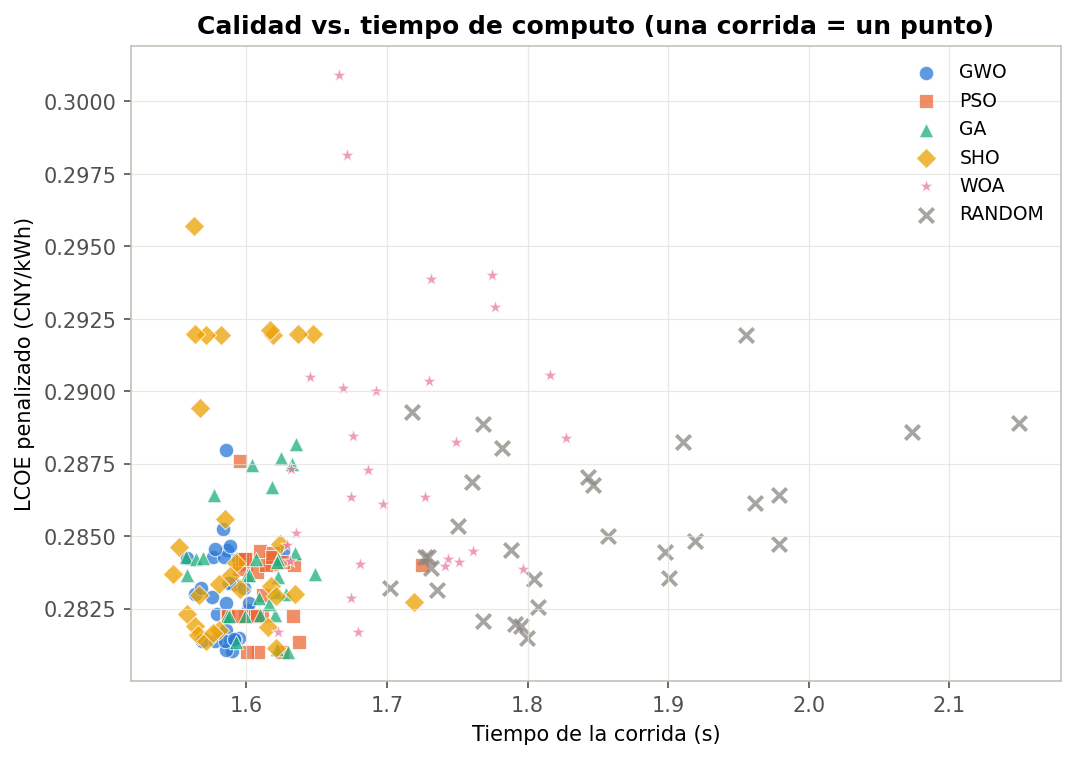
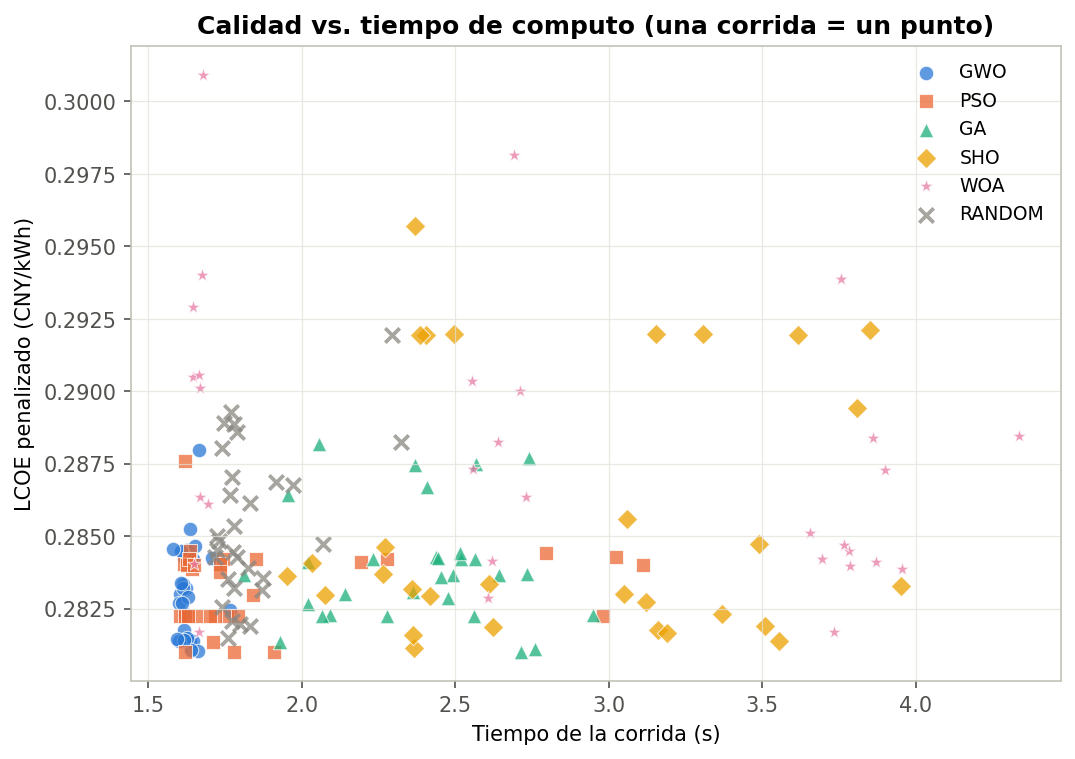
Regenera entrega/ con los tiempos medidos de la ultima corrida
h2hres report --config configs/metaheuristicas.yaml --out entrega, sin
cambios de codigo ni de configuracion. Todos los scores, el ranking, la
validacion contra el paper (9 de 10 objetivos dentro de tolerancia) y los
dos barridos de sensibilidad dan exactamente lo mismo que antes: lo unico
que se mueve son los tiempos de reloj de esta maquina (elapsed_s por
corrida, mean_elapsed_s por algoritmo, el total del README y la posicion
horizontal de los puntos en calidad_vs_tiempo.png).

diff --git a/entrega/README.md b/entrega/README.md
@@ -142,5 +142,5 @@ h2hres download --config configs/metaheuristicas.yaml   # ~1 min, una vez
 h2hres report   --config configs/metaheuristicas.yaml --out entrega
 ```
 
-`report` encadena validacion, comparativa (6 algoritmos x 30 semillas, 600 evaluaciones cada una) y los dos barridos de sensibilidad. La ultima corrida en esta maquina tomo 5 min 12 s (medido, no estimado -- se recalcula cada vez que se regenera `entrega/`). Cada corrida individual tambien queda en `results/<timestamp>_*/` via `h2hres compare` y `h2hres sensitivity` por separado, si hace falta aislar una sin regenerar todo.
+`report` encadena validacion, comparativa (6 algoritmos x 30 semillas, 600 evaluaciones cada una) y los dos barridos de sensibilidad. La ultima corrida en esta maquina tomo 7 min 12 s (medido, no estimado -- se recalcula cada vez que se regenera `entrega/`). Cada corrida individual tambien queda en `results/<timestamp>_*/` via `h2hres compare` y `h2hres sensitivity` por separado, si hace falta aislar una sin regenerar todo.
 
